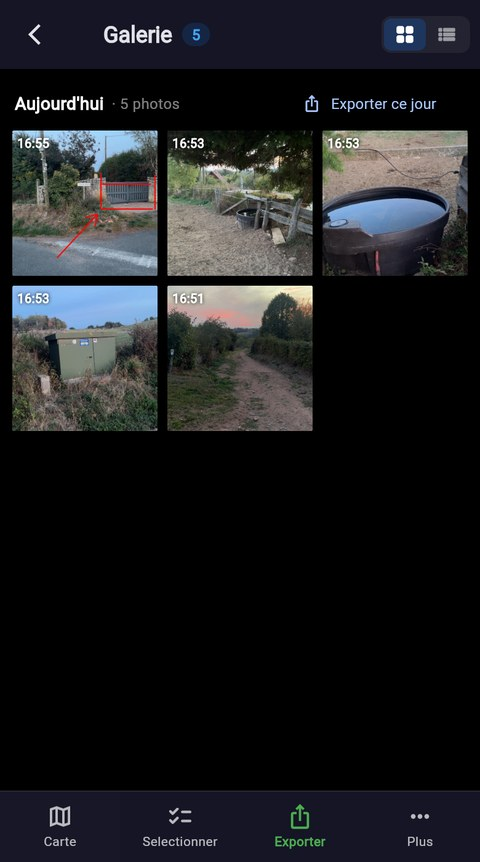
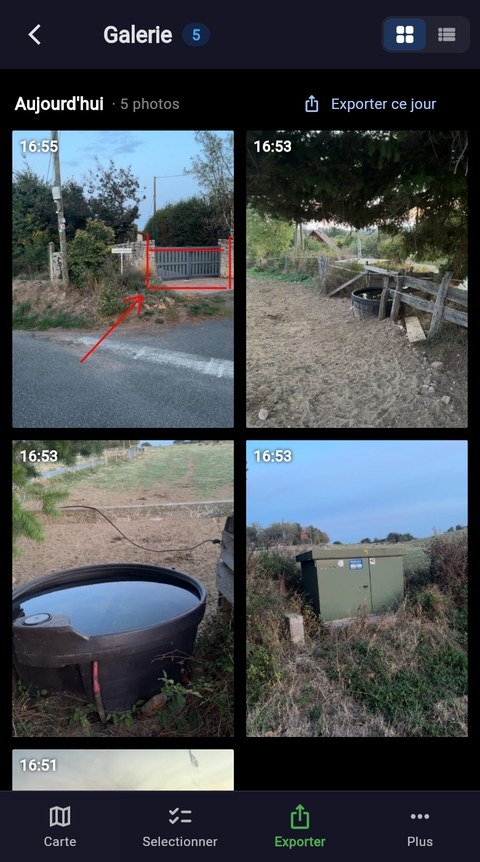
v1.3.0 - README et capture de la galerie
Claude-Session: https://claude.ai/code/session_01N6yeTEZXbkzDEeub1JciT3

diff --git a/README.md b/README.md
@@ -9,7 +9,7 @@
 **Appareil photo de terrain qui nomme, annote et géoréférence chaque cliché en Lambert 93, puis l'exporte prêt à ouvrir dans QGIS**
 
 [![Flutter](https://img.shields.io/badge/Flutter-Dart%20%5E3.9.2-02569B?logo=flutter&logoColor=white)](https://flutter.dev)
-[![Version](https://img.shields.io/badge/version-1.2.0-blue)](pubspec.yaml)
+[![Version](https://img.shields.io/badge/version-1.3.0-blue)](pubspec.yaml)
 [![Téléchargements](https://img.shields.io/github/downloads/Cartoyoyo/CartoSnap-APK/total?label=t%C3%A9l%C3%A9chargements)](https://github.com/Cartoyoyo/CartoSnap-APK/releases)
 [![Android](https://img.shields.io/badge/Android-APK-3DDC84?logo=android&logoColor=white)](https://cartoyoyo.github.io/CartoSnap-APK/)
 [![iPhone](https://img.shields.io/badge/iPhone-version%20web-lightgrey?logo=safari&logoColor=white)](https://cartoyoyo.github.io/CartoSnap-web/)
@@ -65,13 +65,13 @@ Fini les photos de chantier à relocaliser à la main : visez, déclenchez, et l
 - **Conversion Lambert 93 embarquée** : projection conique conforme RGF93 / GRS80 (algorithmes IGN), aller et retour WGS84 ↔ Lambert 93, écart nul au millimètre près avec PROJ.
 - **Nommage automatique** : `AAAAMMJJHHMMSS_X652469_Y6862035[_suffixe].jpg`, à l'heure de la prise de vue, avec un suffixe de chantier facultatif (accents retirés, seuls lettres, chiffres, `-` et `_` gardés).
 - **Photos en pleine résolution** : résolution maximale du capteur, gardée telle quelle sur l'appareil ; la réduction (1600 px) se fait à l'export si on le souhaite.
-- **Bandeau GPS sous la photo** : adresse, `X … Y … | EPSG:2154`, altitude, précision et cap, ajoutés automatiquement sous l'image (sans la masquer) quand l'annotation est désactivée.
+- **Bandeau GPS sous la photo** : adresse, `X … Y … | EPSG:2154`, altitude, précision et cap, ajoutés automatiquement sous l'image (sans la masquer) quand l'annotation est désactivée. Sur Android, il se désactive (*Réglages → Bandeau sous la photo*) : la photo de l'appareil est alors gardée telle quelle, seul l'EXIF CartoSnap est ajouté, et l'enregistrement est quasi instantané.
 - **Viseur dégagé** : état GPS, heure et boutons posés sur un léger voile en haut ; bandeau de 2 lignes en bas (adresse, X/Y Lambert 93 ou WGS84, altitude, précision — vert ≤ 10 m, orange ≤ 30 m, rouge au-delà —, cap), repliable en pilule d'une ligne ; mini-carte ronde agrandissable ; disposition adaptée au paysage. Une perte de signal GPS est signalée et la photo est alors enregistrée sans coordonnées.
 - **Boussole** : cap de prise de vue (direction de l'objectif) affiché dans le viseur et enregistré dans l'EXIF (`GPSImgDirection`, nord magnétique sous Android et sur le web, nord vrai sous iOS natif), y compris dans Safari sur iPhone (autorisation demandée au premier toucher). Valeur lissée, capteur relancé s'il se fige. Sans boussole, le cap GPS est utilisé.
 - **Choix d'objectif** : sélecteur 0.5x / 1x / téléobjectif quand le téléphone expose plusieurs caméras arrière, en plus du zoom par pincement et de la bascule avant/arrière.
 - **Annotation après capture** : stylo (12 couleurs, 6 épaisseurs, annuler), commentaire, et **canevas** ajouté sous la photo (commentaire, adresse et date, X/Y Lambert 93, altitude, précision, cap), activable par défaut dans les réglages.
 - **Géocodage inverse** : adresse courte via Nominatim (OSM) — numéro et rue, sinon lieu-dit ou hameau, sinon commune — limitée à une requête par seconde et déclenchée après 3 s de position stable.
-- **Galerie** : photos **regroupées par jour** (un jour ≈ un chantier), en grille ou en liste, avec « Exporter ce jour » ; barre d'actions en bas (Carte, Sélectionner, Exporter, Plus) ; sélection par jour avec compteur ; partage, suppression, vue plein écran avec coordonnées Lambert 93.
+- **Galerie** : photos **regroupées par jour** (un jour ≈ un chantier), en grille (2 photos par ligne) ou en liste, avec « Exporter ce jour » ; barre d'actions en bas (Carte, Sélectionner, Exporter, Plus) ; sélection par jour avec compteur ; partage, suppression, vue plein écran avec coordonnées Lambert 93.
 - **Carte des photos** : vignettes regroupées par proximité, bandeau de vignettes dépliable (toucher = centrer la carte), échelle affichée et forçable (1/250 à 1/25 000), barre d'actions en bas (Photos, Mise en page, Image, Exporter), image JPEG A4 (portrait ou paysage, standard ou haute qualité, 100 dpi) avec titre et commentaire.
 - **Exports** : 3 choix nommés par usage — *Envoyer un compte rendu* (Carte HTML), *Ouvrir dans QGIS* (ZIP : projet, GeoJSON, CSV, photos), *Photos + tableau Excel* (ZIP : photos + CSV) — avec la taille estimée, sur toutes les photos, un jour ou une sélection ; photos réduites à 1600 px (EXIF conservé) ou originales, au choix (détail dans [Contenu des exports](#contenu-des-exports)).
 - **Carte HTML** : un seul fichier `.html`, lisible dans n'importe quel navigateur sans logiciel : carte Leaflet avec choix du fond (OSM France, OpenTopoMap, photo aérienne IGN), marqueurs numérotés, popup avec la photo, la date, les X/Y Lambert 93, l'adresse et la précision, visionneuse plein écran, grille de toutes les photos (y compris sans GPS). Les photos sont réduites à 1600 px et intégrées au fichier, qui reste envoyable par mail.
@@ -82,9 +82,9 @@ Fini les photos de chantier à relocaliser à la main : visez, déclenchez, et l
 - **Projet QGIS prêt à l'emploi** : chaque photo affichée **en vignette encadrée** (nom du fichier sous la photo) reliée à son point par un trait (point bleu = position exacte), sans chevauchement (photos superposées écartées), vignettes déplaçables à la main (outil « Déplacer une étiquette », position enregistrée dans le GeoJSON), info-bulle, action « Ouvrir la photo », chemins relatifs, fond de carte du réglage. Vérifié en chargeant le projet généré dans QGIS 3.44.
 - **Fond de carte** : OpenStreetMap France (par défaut) ou OpenTopoMap (topographique), au choix dans les réglages, appliqué à la mini-carte, à la carte des photos, à l'export JPEG A4, au projet QGIS et à l'ouverture de la Carte HTML (qui propose en plus la photo aérienne IGN).
 - **Réparation des anciennes photos** (Galerie → ⋮) : reconversion en JPEG des PNG enregistrés en `.jpg`, EXIF GPS réécrit, noms de fichiers renommés avec les X/Y corrigés, position factice de Paris effacée.
-- **EXIF GPS** : latitude, longitude, altitude, cap, date et coordonnées Lambert 93 (description) écrits dans chaque photo géolocalisée, y compris après bandeau ou annotation (réencodage JPEG qualité 92).
+- **EXIF GPS** : latitude, longitude, altitude, cap, date et coordonnées Lambert 93 (description) écrits dans chaque photo géolocalisée, y compris après bandeau ou annotation (réencodage JPEG qualité 92 par l'encodeur d'Android, en arrière-plan : le déclencheur reste disponible).
 - **Pas de position inventée** : si le GPS est coupé ou refusé, la photo est enregistrée sans coordonnées (`CartoSnap_<date>.jpg`), le témoin passe au rouge, et les exports laissent ses colonnes X/Y vides (géométrie nulle dans le GeoJSON). Le suivi reprend seul quand le GPS est réactivé.
-- **Dossier de sauvegarde** : `DCIM/CartoSnap` par défaut, ou un dossier choisi par l'utilisateur.
+- **Dossier de sauvegarde** : `DCIM/CartoSnap` par défaut, y compris sous Android 10 (autorisation de stockage demandée ; les photos qu'une version précédente avait rangées dans le dossier de l'appli y sont déplacées), ou un dossier choisi par l'utilisateur.
 - **Mises à jour sans perte** : les données enregistrées sont versionnées et migrées au démarrage ; après une réinstallation, les photos du dossier sont retrouvées automatiquement à partir de leur EXIF (position, cap, date), ou par Galerie → Plus → *Retrouver mes photos*.
 
 ### Plateformes
@@ -213,7 +213,7 @@ Le GPS fournit des coordonnées WGS84, traitées ici comme RGF93. L'écart entre
 | Carte HTML hors connexion | Les photos et les coordonnées s'affichent, mais la carte (Leaflet et fonds) a besoin d'internet à l'ouverture. |
 | Rapport PDF | Produit par la fenêtre d'impression du système (*Enregistrer en PDF*), pas par l'application elle-même. |
 | Résolution sur iPhone (web) | Safari capture une image du flux vidéo de la caméra (jusqu'à la 4K, en 16:9), pas une photo de l'appareil photo natif de l'iPhone. |
-| Signature de l'APK | Signé avec une clé de test : Android peut demander de désinstaller la version précédente avant une mise à jour. Les photos de `DCIM/CartoSnap` restent sur le téléphone et sont retrouvées au démarrage (position, cap, date), sans leur adresse. |
+| Signature de l'APK | Depuis la 1.3.0, l'APK est signé avec la clé de l'application : les mises à jour suivantes s'installent par-dessus. En venant d'une version antérieure (clé de test), une **dernière désinstallation** est nécessaire : les photos de `DCIM/CartoSnap` restent sur le téléphone et sont retrouvées au démarrage (position, cap, date), sans leur adresse. Sur Android 10, les versions antérieures rangeaient les photos dans `Android/data/com.geosnap.camera/files/CartoSnap`, effacé à la désinstallation : copiez ce dossier vers `DCIM/CartoSnap` (câble USB) avant de désinstaller. |
 
 ---
 
@@ -388,6 +388,7 @@ d2 --layout elk architecture.d2 architecture.svg
 
 | Version | Notes |
 |---------|-------|
+| **1.3.0 — 10/10/2026** | **Capture plus rapide sur Android** : encodage JPEG par Android (≈ 10 fois plus rapide), enregistrement en arrière-plan, déclencheur libéré tout de suite ; réglage **Bandeau sous la photo** (désactivé : photo de l'appareil gardée telle quelle) ; **photos toujours dans `DCIM/CartoSnap`** sous Android 10 (déplacement automatique depuis le dossier de l'appli, avertissement si l'accès est refusé) ; **APK signé avec la clé de l'application** (mises à jour sans désinstaller) ; galerie à 2 photos par ligne ; exports : photos redressées selon l'orientation EXIF. Les durées de prise et d'enregistrement s'affichent provisoirement après chaque photo |
 | **1.2.0 — 10/10/2026** | **Boussole web** (Safari et Chrome) et boussole Android fiabilisée ; **photos en pleine résolution**, réduction 1600 px au choix à l'export (EXIF conservé) ; **nouvelle interface** : viseur dégagé (bandeau GPS 2 lignes repliable, mini-carte ronde, paysage), canevas d'annotation sous la photo, export en 3 choix par usage avec taille estimée, galerie regroupée par jour avec barre d'actions en bas, carte avec bandeau de vignettes ; perte de signal GPS signalée ; heure de prise de vue dans le nom et l'EXIF ; **mises à jour sans perte** (données versionnées, photos retrouvées après réinstallation) ; textes en français ; rapport HTML bien plus rapide sur le web |
 | **1.1.0 — 05/10/2026** | Projet QGIS : photos en **vignettes encadrées** (cadre bleu, nom du fichier sur 3 lignes sous la photo) reliées à leur point par un trait de rappel, **sans chevauchement** (photos prises au même endroit écartées), **déplaçables à la main** avec l'outil « Déplacer une étiquette » (position enregistrée dans les champs `label_x` / `label_y` du GeoJSON) ; chemin des photos sans `file:///` |
 | **1.0.1 — 04/10/2026** | Rapport PDF de la Carte HTML sans les en-têtes et pieds de page du navigateur (date, titre, chemin du fichier) : marges d'impression nulles, marge de 10 mm recréée dans la page |
